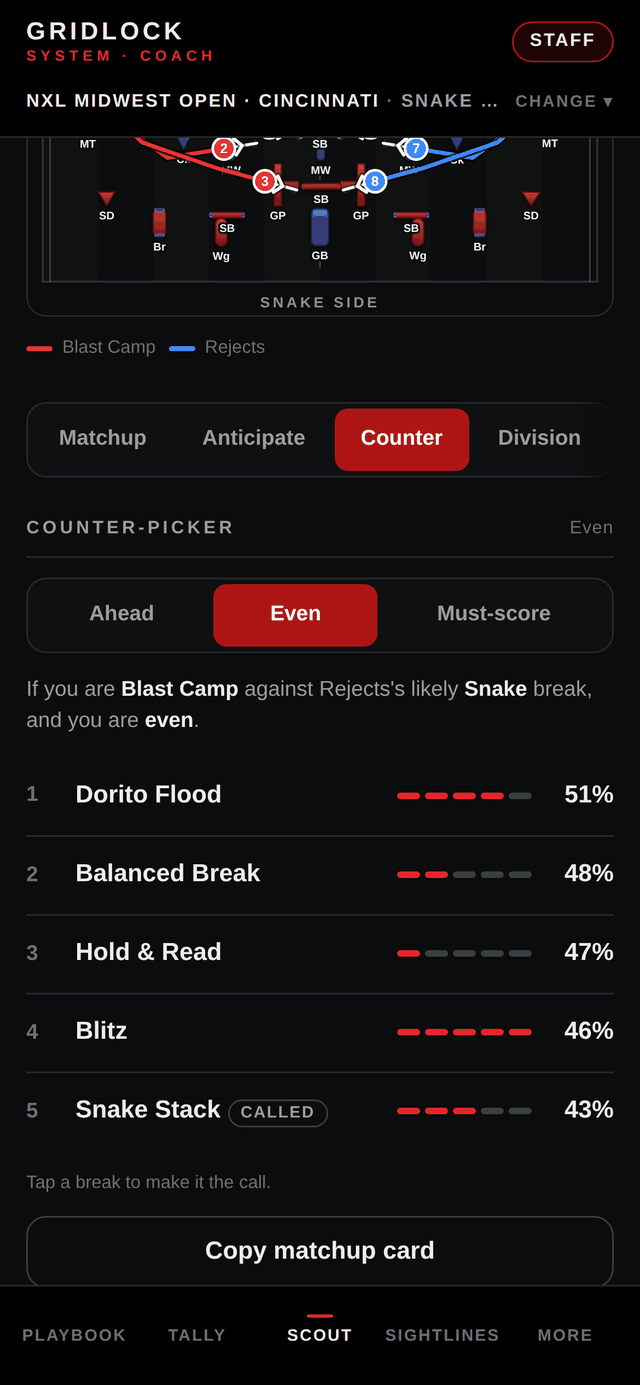
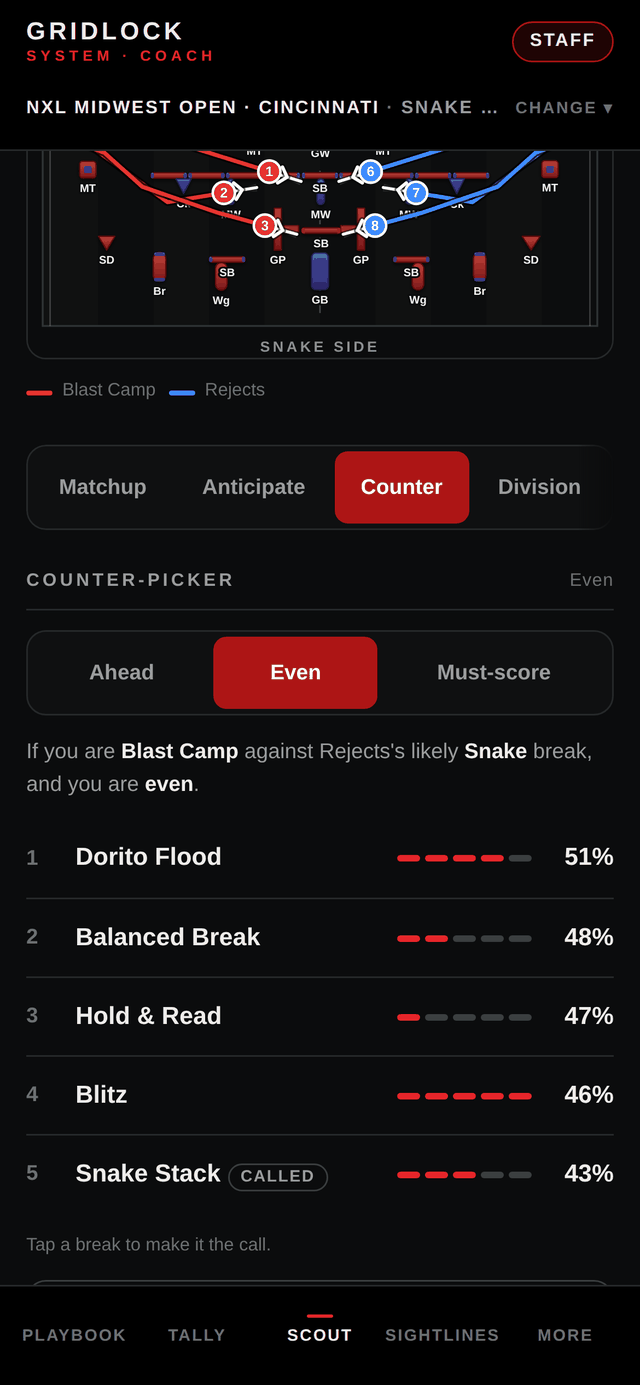
Make it hold up on every phone and iPad people own
Measured 14 devices — every iPhone since the SE 2, the whole iPad line, and two
Android references — across all five tabs, and found two real defects.

An iPad was running a stretched phone. Nothing was constrained, so on a 13-inch
landscape the call button was 1334 px wide and a line of notes ran 98 characters,
which nobody reads. Wide viewports now hold one centred 860 px column: every
heading on the same left edge the way it reads on a phone, and a field two and a
half times the size it gets there. Longest line of running text is now 49
characters on a 13-inch iPad, the same as on an iPhone.

Tap targets were too small, and that one matters more than it sounds. 32 distinct
controls sat under 44 px — the P|S role toggles at 30 square, the threat stars at
32, "Got it" at 34x23. Apple asks for 44 pt and Android for 48 dp, but the real
reason is the promise on the box: this gets tapped on a sideline, in a hurry,
with a glove on. Everything interactive is now at least 44 px in its short axis.

test/devices.js keeps both fixed. It drives the real app at each device's
viewport and fails on sideways scroll, a tab bar off screen, a target under
44 px, or text past 80 characters a line. Safe-area padding is asserted from the
CSS, since Chromium has no notch to emulate — and it is handled: viewport-fit
cover, with the header, tab bar and content all padding for the insets.

61/61 device checks across 14 devices, 126/126 function checks, 58/58 bunkers at
[…]

diff --git a/test/devices.js b/test/devices.js
@@ -1,0 +1,158 @@
+#!/usr/bin/env node
+/* Prove the app holds up on the phones and tablets people actually own.
+ *
+ *   npm run serve            # terminal 1
+ *   node test/devices.js
+ *
+ * Every device Apple has shipped since 2020 that is still supported, plus the
+ * iPad line, driven through every tab. Four things are checked on each, because
+ * these are the four ways a web app inside a native shell goes wrong:
+ *
+ *   1. Horizontal overflow — the tell-tale of a layout that assumed one width.
+ *   2. The tab bar leaving the viewport, which strands the user.
+ *   3. Tap targets under 44 px, which Apple asks for, Android asks 48 dp for,
+ *      and a coach in a glove needs more than either.
+ *   4. Running text past 80 characters a line, which is what a phone layout
+ *      stretched across an iPad looks like.
+ *
+ * Safe-area handling is asserted separately: Chromium has no notch to emulate,
+ * so the CSS rules that pad for one are checked statically.
+ */
+const path = require("path");
+const fs = require("fs");
+const { chromium } = require(path.join(__dirname, "..", "node_modules", "playwright-core"));
+const SEED = require(path.join(__dirname, "..", "scripts", "seed.js"));
+
+const CHROME = process.env.CHROME_PATH || "/opt/pw-browsers/chromium-1194/chrome-linux/chrome";
+const URL = process.env.APP_URL || "http://localhost:5173/";
+
+const TAP = 44;        // px, short axis
+const MEASURE = 80;    // characters a line
+
+// Logical CSS px, portrait. Every one of these is a device still taking iOS 17+.
+const DEVICES = [
+  ["iPhone SE 2 / SE 3",        375, 667],
+  ["iPhone 12 / 13 mini",       375, 812],
+  ["iPhone 12 / 13 / 14 / 16e", 390, 844],
+  ["iPhone 15 / 16 / 17",       393, 852],
+  ["iPhone 16 / 17 Pro",        402, 874],
+  ["iPhone 14 / 15 Plus",       428, 926],
+  ["iPhone 16 / 17 Pro Max",    430, 932],
+  ["iPad mini 6",               744, 1133],
+  ["iPad 10.9 / Air 11",        820, 1180],
+  ["iPad Pro 11",               834, 1194],
+  ["iPad Pro 13",              1024, 1366],
+  ["iPad Pro 13 landscape",    1366, 1024],
+  ["Pixel 7 / 8",               412, 915],
+  ["Galaxy S23 / S24",          360, 780],
+];
+const TABS = ["Playbook", "Tally", "Scout", "Sightlines", "More"];
+
+const measure = () => {
+  const out = { over: 0, tap: null, line: null };
+
+  const doc = document.documentElement;
+  const main = document.querySelector(".main");
+  out.over = Math.max(doc.scrollWidth - window.innerWidth,
+                      main ? main.scrollWidth - main.clientWidth : 0);
+
+  const tabs = document.querySelector(".tabs");
+  const r = tabs && tabs.getBoundingClientRect();
+  out.tabsIn = !!r && Math.ceil(r.bottom) <= window.innerHeight + 1 && r.top >= 0;
+
+  // Smallest interactive target on screen, by its short axis. A horizontal
+  // scroller can park a control off-screen; those are not on screen, so skip.
+  document.querySelectorAll("button,select,textarea,a[href],input:not([type=hidden])").forEach(el => {
+    const b = el.getBoundingClientRect();
+    if (b.width < 1 || b.height < 1) return;
+    if (b.right < 0 || b.left > window.innerWidth) return;
+    const short = Math.ceil(Math.min(b.width, b.height));   // 43.5 css px is 44
+    if (!out.tap || short < out.tap.px)
+      out.tap = { px: short, what: ((el.textContent || el.tagName).trim() || el.tagName).slice(0, 18) };
+  });
+
+  // Longest line of running text, counted for real: how many characters the
+  // block holds divided by how many lines it wraps to.
+  document.querySelectorAll(".main p, .main li, .main .note, .main td").forEach(el => {
+    if (el.children.length) return;                          // leaf text only
+    const txt = (el.textContent || "").trim();
+    if (txt.length < 70) return;
+    const rng = document.createRange();
+    rng.selectNodeContents(el);
+    const lines = new Set([...rng.getClientRects()].map(x => Math.round(x.top))).size || 1;
+    const ch = Math.round(txt.length / lines);
+    if (!out.line || ch > out.line.ch) out.line = { ch, what: txt.slice(0, 22) };
+  });
+  return out;
+};
+
+(async () => {
+  const results = [];
+  const errors = [];
+  const check = (group, name, pass, detail) => results.push({ group, name, pass, detail });
+
+  // --- safe areas: static, because there is no notch to emulate ------------
+  const css = fs.readFileSync(path.join(__dirname, "..", "web", "index.html"), "utf8");
+  check("Safe areas", "the viewport opts into the full screen", /viewport-fit=cover/.test(css));
+  for (const [sel, side] of [[".hdr", "top"], [".tabs", "bottom"], [".main", "left"], [".main", "right"]]) {
+    const block = new RegExp(`\\${sel}\\{[^}]*safe-area-inset-${side}`, "s");
+    check("Safe areas", `${sel} pads for the ${side} inset`, block.test(css));
+  }
+
+  const browser = await chromium.launch({ executablePath: CHROME, args: ["--no-sandbox"] });
+  const rows = [];
+
+  for (const [name, w, h] of DEVICES) {
+    const ctx = await browser.newContext({ viewport: { width: w, height: h }, deviceScaleFactor: 2 });
+    const page = await ctx.newPage();
+    page.on("pageerror", e => errors.push(`${name}: ${e.message}`));
+    await page.goto(URL);
+    await page.evaluate(s => localStorage.setItem("gridlock.coach.v2", JSON.stringify(s)), SEED);
+    await page.reload({ waitUntil: "networkidle" });
+    await page.waitForTimeout(320);
+
+    const worst = { over: 0, tap: null, line: null, tabsIn: true };
+    for (const tab of TABS) {
+      await page.locator(".tabs button", { hasText: tab }).click();
+      await page.waitForTimeout(260);
+      const m = await page.evaluate(measure);
+      worst.over = Math.max(worst.over, m.over);
+      worst.tabsIn = worst.tabsIn && m.tabsIn;
+      if (m.tap && (!worst.tap || m.tap.px < worst.tap.px)) worst.tap = { ...m.tap, tab };
+      if (m.line && (!worst.line || m.line.ch > worst.line.ch)) worst.line = { ...m.line, tab };
+    }
+    rows.push([name, `${w}x${h}`, worst]);
+    await ctx.close();
+
+    const g = "Devices";
+    check(g, `${name} — no sideways scroll`, worst.over <= 0, worst.over > 0 ? `${worst.over}px over` : "");
+    check(g, `${name} — tab bar on screen`, worst.tabsIn);
+    check(g, `${name} — every target ${TAP}px+`, !worst.tap || worst.tap.px >= TAP,
+          worst.tap ? `${worst.tap.px}px "${worst.tap.what}" on ${worst.tap.tab}` : "");
+    check(g, `${name} — text under ${MEASURE} ch`, !worst.line || worst.line.ch <= MEASURE,
+          worst.line ? `${worst.line.ch} ch on ${worst.line.tab}` : "");
+  }
+  await browser.close();
+
+  console.log("GRIDLOCK device suite");
+  console.log("=====================\n");
+  console.log("DEVICE                       VIEWPORT     OVERFLOW  TAB BAR  MIN TAP  MAX LINE");
+  console.log("-".repeat(80));
+  for (const [n, v, x] of rows)
+    console.log(`${n.padEnd(28)} ${v.padEnd(12)} ${String(x.over + "px").padEnd(9)} ` +
+                `${(x.tabsIn ? "on" : "CUT").padEnd(8)} ${String((x.tap ? x.tap.px : "-") + "px").padEnd(8)} ` +
+                `${x.line ? x.line.ch + " ch" : "-"}`);
+
+  let last = "";
+  console.log("");
+  const failed = results.filter(r => !r.pass);
+  for (const r of failed.length ? failed : results.filter(r => r.group === "Safe areas")) {
+    if (r.group !== last) { console.log(`\n${r.group}`); console.log("-".repeat(r.group.length)); last = r.group; }
+    console.log(`  ${r.pass ? "PASS" : "FAIL"}  ${r.name}${r.detail ? "  — " + r.detail : ""}`);
+  }
+  console.log(`\n${results.length - failed.length}/${results.length} checks passed across ${DEVICES.length} devices.`);
+  if (errors.length) { console.log("\nPAGE ERRORS:"); errors.forEach(e => console.log("  " + e)); }
+  else console.log("No page errors during the run.");
+
+  process.exit(failed.length || errors.length ? 1 : 0);
+})();

diff --git a/web/index.html b/web/index.html
@@ -58,6 +58,11 @@ button{cursor:pointer;border:0;background:none;padding:0;text-align:left}
 h1,h2,h3,p{margin:0}
 .grow{flex:1}
 
+/* Every control a coach taps is at least 44 px in its short axis. Apple asks
+   for 44 pt and Android for 48 dp, but the real reason is the promise on the
+   box: this gets used on a sideline, in a hurry, with a glove on.
+   test/devices.js fails the build if anything drops under it. */
+
 /* ============================================================
    SHELL — header and tab bar pinned, only .main scrolls
    ============================================================ */
@@ -71,6 +76,17 @@ h1,h2,h3,p{margin:0}
 /* A scrolling flex column shrinks its children to fit. Without this every
    block is squashed — and anything with overflow:hidden gets clipped. */
 .main > *{flex:0 0 auto}
+
+/* Tablets. A phone layout stretched to 1366 px is not a tablet layout: the
+   call button becomes a metre wide and a line of notes runs past 200
+   characters, which nobody reads. So the whole screen holds one centred column
+   — every heading on the same left edge, the way it reads on a phone — and the
+   field gets 860 px, which is two and a half times what it has on a phone. */
+@media (min-width:680px){
+  .main{align-items:center}
+  .main > *{width:100%;max-width:860px}
+  .main .note{max-width:74ch}          /* a caption, not a wall of text */
+}
 
 .hdr{
   background:#000;border-bottom:1px solid var(--line);
@@ -91,7 +107,7 @@ h1,h2,h3,p{margin:0}
 
 /* live context: what field and what call, always on screen */
 .ctx{
-  display:flex;align-items:center;gap:var(--s2);width:100%;
+  display:flex;align-items:center;gap:var(--s2);width:100%;min-height:44px;
   padding:var(--s2) 0 var(--s3);margin-top:var(--s2);
   color:var(--mute);font-size:var(--t-xs);letter-spacing:.1em;text-transform:uppercase;font-weight:700;
 }
@@ -175,7 +191,7 @@ h1,h2,h3,p{margin:0}
      mask-image:linear-gradient(to right,#000 calc(100% - 22px),transparent)}
 .seg:not(:has(button:nth-child(4))){-webkit-mask-image:none;mask-image:none}
 .seg button{
-  flex:1 0 auto;min-height:38px;padding:0 var(--s3);border-radius:var(--r-sm);
+  flex:1 0 auto;min-height:44px;padding:0 var(--s3);border-radius:var(--r-sm);
   color:var(--mute);font-size:var(--t-sm);font-weight:600;white-space:nowrap;
   display:flex;align-items:center;justify-content:center;transition:background .12s,color .12s;
 }
@@ -183,7 +199,7 @@ h1,h2,h3,p{margin:0}
 
 .toggles{display:flex;gap:var(--s2);flex-wrap:wrap}
 .tgl{
-  display:inline-flex;align-items:center;gap:var(--s2);min-height:38px;padding:0 var(--s3);
+  display:inline-flex;align-items:center;gap:var(--s2);min-height:44px;padding:0 var(--s3);
   border:1px solid var(--line-lit);border-radius:var(--r-pill);background:var(--panel);
   font-size:var(--t-sm);font-weight:600;color:var(--mute);
 }
@@ -202,8 +218,8 @@ h1,h2,h3,p{margin:0}
 .btn--lg{min-height:52px;font-size:var(--t-lg);letter-spacing:.02em}
 .btn--ghost{background:transparent;color:var(--ink);border:1px solid var(--line-lit)}
 .btn--ghost:active{background:var(--panel-2)}
-.btn--quiet{background:transparent;color:var(--mute);border:1px solid var(--line);min-height:38px;font-size:var(--t-sm)}
-.btn--danger{background:transparent;color:var(--red);border:1px solid var(--line);min-height:34px;font-size:var(--t-xs);padding:0 var(--s3)}
+.btn--quiet{background:transparent;color:var(--mute);border:1px solid var(--line);min-height:44px;font-size:var(--t-sm)}
+.btn--danger{background:transparent;color:var(--red);border:1px solid var(--line);min-height:44px;font-size:var(--t-xs);padding:0 var(--s3)}
 .btnrow{display:flex;gap:var(--s2);flex-wrap:wrap}
 
 /* ============================================================
@@ -212,7 +228,9 @@ h1,h2,h3,p{margin:0}
 .fld{display:flex;flex-direction:column;gap:6px}
 .fld > label{font-size:var(--t-xs);font-weight:700;letter-spacing:.14em;text-transform:uppercase;color:var(--mute)}
 input,select,textarea{
-  width:100%;min-height:44px;background:var(--sunk);color:var(--ink);
+  /* 46, not 44: inside a flex row these get shrunk half a pixel, and a control
+     that measures 43.5 is a control that fails the 44 px rule. */
+  width:100%;min-height:46px;flex:0 0 auto;background:var(--sunk);color:var(--ink);
   border:1px solid var(--line);border-radius:var(--r-md);padding:11px var(--s3);
 }
 input::placeholder,textarea::placeholder{color:var(--dim)}
@@ -245,9 +263,12 @@ svg.field{width:100%;height:auto;display:block}
 .assign__job{font-size:var(--t-md);font-weight:600;line-height:1.25}
 .assign__who{font-size:var(--t-xs);color:var(--dim);letter-spacing:.04em}
 .ps{display:flex;gap:4px;flex:none}
+/* 44 px square. Apple asks for 44 pt and Android for 48 dp, but the real
+   reason is the promise on the box: this gets tapped on a sideline, in a
+   hurry, with a glove on. */
 .ps button{
-  width:30px;height:30px;border-radius:6px;display:grid;place-items:center;
-  font-size:11px;font-weight:800;letter-spacing:.04em;
+  width:44px;height:44px;border-radius:8px;display:grid;place-items:center;
+  font-size:13px;font-weight:800;letter-spacing:.04em;
   border:1px solid var(--line-lit);color:var(--dim);background:transparent;
 }
 .ps button.on{background:var(--accent);color:#fff;border-color:var(--accent)}
@@ -301,9 +322,9 @@ svg.field{width:100%;height:auto;display:block}
 .pit__side{font-size:var(--t-xs);font-weight:700;letter-spacing:.18em;text-transform:uppercase;color:var(--wire)}
 .pit__name{font-size:var(--t-xl);font-weight:800;line-height:1.1}
 .pit__pts{font-size:var(--t-xs);color:var(--dim);font-variant-numeric:tabular-nums;letter-spacing:.06em}
-.stars{display:flex;gap:2px}
+.stars{display:flex;gap:2px;margin:-6px}   /* the pad is bleed, not spacing */
 .star{
-  width:32px;height:32px;display:grid;place-items:center;font-size:17px;line-height:1;
+  width:44px;height:44px;display:grid;place-items:center;font-size:19px;line-height:1;
   color:var(--dim);
 }
 .star.on{color:var(--accent-lit)}
@@ -386,7 +407,8 @@ svg.field{width:100%;height:auto;display:block}
   background:rgba(173,21,21,.12);border:1px solid rgba(173,21,21,.5);
   border-radius:var(--r-md);padding:var(--s3);font-size:var(--t-sm);color:var(--ink);line-height:1.45;
 }
-.tip button{flex:none;color:var(--accent-lit);font-weight:700;font-size:var(--t-sm);padding:2px 0}
+.tip button{flex:none;color:var(--accent-lit);font-weight:700;font-size:var(--t-sm);
+  min-height:44px;min-width:44px;margin:-11px 0;padding:0 var(--s2)}
 
 /* ============================================================
    PROMO
@@ -1462,7 +1484,7 @@ function bunkerPick(label, idx, field, value){
   const list = (LAYOUTS[S.layoutKey] || LAYOUTS.mwo).bunkers;
   return `<label style="display:flex;flex-direction:column;gap:4px">
     <span class="note">${label}</span>
-    <select onchange="setOutBunker(${idx},'${field}',this.value)" style="min-height:36px;font-size:var(--t-sm)">
+    <select onchange="setOutBunker(${idx},'${field}',this.value)" style="font-size:var(--t-sm)">
       <option value="">—</option>
       ${list.map(b=>`<option value="${esc(b.id)}" ${value===b.id?"selected":""}>${esc(callOf(b))} · ${esc(b.id)}</option>`).join("")}
     </select></label>`;

diff --git a/README.md b/README.md
@@ -118,14 +118,15 @@ listing icons into `brand/out/`.
 
 ```bash
 npm run serve            # terminal 1
-npm run check            # terminal 2 — functions, bunker geometry, load
+npm run check            # terminal 2 — functions, devices, bunker geometry, load
 ```
 
-Three suites, all driving the real app in a real browser:
+Four suites, all driving the real app in a real browser:
 
 | Command | What it proves |
 |---|---|
 | `npm test` | 126 assertions across every interactive function — auth, gating, all five tabs, all eleven More destinations, Scout's four sub-tabs, the 8-way pad, tally, movement, assess, classes, league, persistence, layout integrity, break routing and the house rules. |
+| `npm run test:devices` | Every iPhone since the SE 2, the iPad line, and two Android references — 14 devices x 5 tabs. Checks for sideways scroll, a tab bar off the viewport, any tap target under 44 px, and running text past 80 characters a line. Safe-area padding is asserted from the CSS, since Chromium has no notch to emulate. |
 | `npm run verify:bunkers` | Reads the drawn SVG back out of the browser and compares every footprint against the digitized map, by bunker id. Currently 58/58 at 0.00 ft. |
 | `npm run loadtest` | A full season seeded on a 4x-throttled CPU. See `docs/SCALING.md`. |
 
